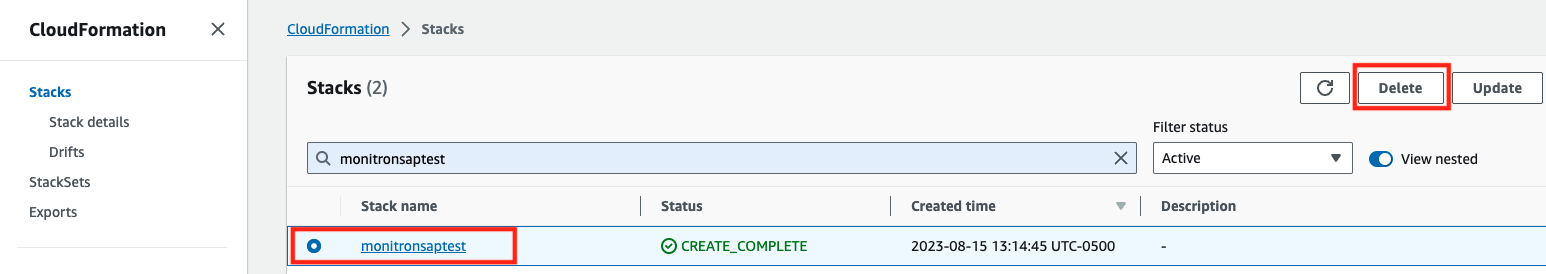
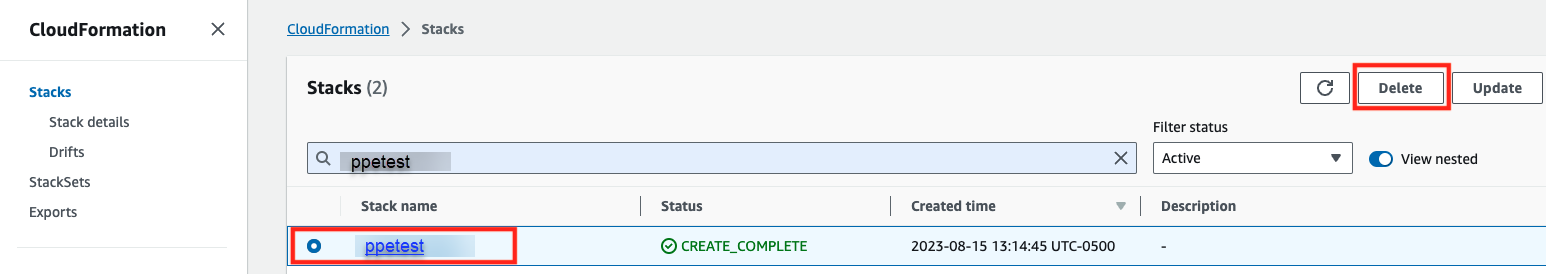
Documented Step 7

Changed region(s): [[0.2173, 0.8467, 0.3105, 0.9635], [0.2173, 0.5547, 0.3105, 0.6423]]

diff --git a/Documentation/Step7-Configure-BusinessActions/README.md b/Documentation/Step7-Configure-BusinessActions/README.md
@@ -1,4 +1,4 @@
-## Configure SAP S/4HANA Business Actions in the extension application
+## Configure SAP S/4HANA Business Actions in the Extension Application
 
 In this section, you will define business action in the action-management extension application in SAP BTP. Ensure your application's **Requested State** is **Started**.
 
@@ -47,7 +47,7 @@ In this section, you will define business action in the action-management extens
 
     Change host name in URL, User, Password as per your SAP S/4HANA system details.
 
-    - In case of SAP S/4HANA system on AWS Private Cloud, choose **Proxy Type** as **PrivateLink** and the private link **hostname** copied from [Step4b-Setup-SAPPrivateLinkService](../Step4b-Setup-SAPPrivateLinkService/README.md) in the **hostname** field.
+    - In case of SAP S/4HANA system on AWS Private Cloud, choose **Proxy Type** as **PrivateLink** and the private link **hostname** copied from [Step3b-Setup-SAPPrivateLinkService](../Step3b-Setup-SAPPrivateLinkService/README.md) in the **hostname** field.
 
         ```
         Name: ACTION_MODELER_S4
@@ -69,7 +69,7 @@ In this section, you will define business action in the action-management extens
 
         ![plot](./images/S4HANAPLDestination.png)
 
-    - In case of SAP S/4HANA On-Premise system, choose **Proxy Type** as **OnPremise** and use the **Virtual Host**:**Virtual Port** in the **hostname** placeholder below created at [Step4a-SetupCloudConnector](../Step4a-SetupCloudConnector/README.md) to connect using Cloud Connector.
+    - In case of SAP S/4HANA On-Premise system, choose **Proxy Type** as **OnPremise** and use the **Virtual Host**:**Virtual Port** in the **hostname** placeholder below created at [Step3a-SetupCloudConnector](../Step3a-SetupCloudConnector/README.md) to connect using Cloud Connector.
 
         ```
         Name: ACTION_MODELER_S4
@@ -126,7 +126,7 @@ In this section, you will configure the different business actions that needs to
     Content-Type: application/json
     Method: POST
     Relative Path: /workingset-rule-services
-    Payload: { "RuleServiceId": "<RulesServiceID>","Vocabulary": [ { "EventInfo":{ "SourceSystem": "${{event.data.SourceSystem}}","DeviceLocation": "${{event.data.DeviceLocation}}","DeviceType": "${{event.data.DeviceType}}" } } ] }
+    Payload: { "RuleServiceId": "<RulesServiceID>","Vocabulary": [ { "EventInfo":{ "BUCKETId":"${{event.data.BUCKETId}}", "photo":"${{event.data.photo}}", "SourceSystem": "${{event.data.SourceSystem}}","DeviceLocation": "${{event.data.DeviceLocation}}","DeviceType": "${{event.data.DeviceType}}" } } ] }
     Action Id Path in Response: Result[0].ActionInfo.ActionId
     ```
 
@@ -136,62 +136,34 @@ In this section, you will configure the different business actions that needs to
 
 6. Choose **Create**.
 
-7. Create another business action with name **FetchEquipmentDetails** and enter the following configuration values.
+7. Create another business action with name **Create EHS Incident** and enter the following  configuration values.
 
 ```
     Basic Information:
 
-    Action Name: FetchEquipmentDetails
-    Description: FetchEquipmentDetails
-    Category: Pre/Post Action
-    Action Type: Service Integration
-    
-    HTTP Information:
-    Destination: ACTION_BUSINESS_RULES
-    Content-Type: application/json
-    Method: POST
-    Relative Path: /workingset-rule-services
-    Payload: { "RuleServiceId": "2c63b92dc775482682d230d031b14b1a", "Vocabulary": [ { "BucketInfo":{ "BucketName": "${{event.data.BUCKETId}}" } } ] }
-
-    Is Csrf Token Needed?: false
-
-```
-
-Your configuration should look like this:
-
-![plot](./images/FetchEquipmentDetails.png)
-
-8. Create another business action with name **Create PM Notification** and enter the following  configuration values.
-
-```
-    Basic Information:
-
-    Action Name: Create PM Notification
-    Description: Create notification in SAP PM for Monitron
+    Action Name: Create EHS Incident
+    Description: Create EHS incident if any volilation of PPE protection is detected
     Category: Main Action
     Action Type: Service Integration
+```
+
+```
     
     HTTP Information:
     Destination: ACTION_MODELER_S4
     Content-Type: application/json
     Method: POST
-    Relative Path: /API_PURCHASEREQ_PROCESS_SRV/A_PurchaseRequisitionHeader
+    Relative Path:/API_EHS_REPORT_INCIDENT_SRV/A_Incident
     Payload: {
-        
-    "NotificationText":"Monitron error ",
-    "MaintNotifLongTextForEdit":"Needs Maintenance, Monitron location: ${{pre.717174c8-8f1c-4166-ab8f-cd946286ab04.Result[0].EquipmentDetails.Location}} and equipment: ${{pre.717174c8-8f1c-4166-ab8f-cd946286ab04.Result[0].EquipmentDetails.Equipment}}",
-    "NotificationType": "M1","TechnicalObject": "${{pre.717174c8-8f1c-4166-ab8f-cd946286ab04.Result[0].EquipmentDetails.Equipment}}",
-    "TechObjIsEquipOrFuncnlLoc": "EAMS_EQUI",
-    "TechnicalObjectLabel": "${{pre.717174c8-8f1c-4166-ab8f-cd946286ab04.Result[0].EquipmentDetails.Equipment}}"
-
+        "IncidentCategory": "${{event.data.eventData.IncidentCategory}}",
+        "IncidentTitle": "${{event.data.eventData.IncidentTitle}}",
+        "IncidentUTCDateTime": "${{event.data.eventData.IncidentUTCDateTime}}",
+        "IncidentDescriptionOfEvents":"Check s3 bucket "${{event.data.BUCKETId}}" and filename for incident image"
     }
     Is Csrf Token Needed?: true
 
-    Related Actions: 
-    Flow Type: Pre Action
-    Action: FetchEquipmentDetails
 ```
 
 Your configuration should look like this:
 
-![plot](./images/CreatePMNotificationAction.png)
+![plot](./images/CreateEHSIncidentAction.png)

diff --git a/Documentation/Step6-Configure-BusinessRules-Part1/README.md b/Documentation/Step6-Configure-BusinessRules-Part1/README.md
@@ -1,4 +1,5 @@
 ## Create SAP Business Rules Project
+
 In this section, you will configure SAP Business Rule project which will be used to determine which business action should be executed for an event. Additionally, based on your scenario you can create decision tables and business rules.
 
 ### 1. Configure Systems
@@ -24,7 +25,7 @@ In this section, you will configure SAP Business Rule project which will be used
 
 ### 2. Create Business Rules Project
 
-1. Download the [**EventsToActionsRulesProject.zip**](./EventsToActionsRulesProject.zip) file and [**MonitronActionConfigurations.zip**](./MonitronActionConfigurations.zip) file which contains the SAP Business Rules project.
+1. Download the [**EventsToActionsRulesProject.zip**](./EventsToActionsRulesProject.zip) file which contains the SAP Business Rules project.
 
 2. Choose **Design** to create new or import new rule projects.
 
@@ -39,10 +40,6 @@ In this section, you will configure SAP Business Rule project which will be used
 5. You will see the imported project as shown in the screeshot, choose the  **EventsToActionRulesProject** to view the details of the project.
 
     ![plot](./images/prj-imported.png)   
-
-    Similarly import the **MonitronActionConfigurations.zip** 
-
-        ![plot](./images/monitron-configs-zip.png)
 
 6. In the **Rule Services** tab, choose the **Settings** icon and then select **ID** from the **Define Column Properties** list.
 

diff --git a/Documentation/Step5-Setup-AWS/README.md b/Documentation/Step5-Setup-AWS/README.md
@@ -72,7 +72,7 @@ For Storing **SAP_AEM_CREDENTIALS** we need the Advanced Event Mesh UserName and
 
  ![plot](./images/access-aem.png)
 
-In the Application, Navigate to the Cluster Service **Monitron** created in **Step1** and Click on **Connect** Tab. 
+In the Application, Navigate to the Cluster Service **PPE** created in **Step1** and Click on **Connect** Tab. 
 
  ![plot](./images/aem-connect.png)
 
@@ -103,7 +103,7 @@ So your `appConfig.json` file looks as shown below: Fill all the details by foll
     },
     "vpcId": "<your_vpc_id>",
     "subnet": "<your_private_subnet>",
-    "stackName": "monitronsaptest",
+    "stackName": "PPEtest",
     "sapenv": {
         "SAP_AEM_CREDENTIALS":"<your_secret_arn>",
         "SAP_AEM_REST_URL": "<your_aem_rest_url>"
